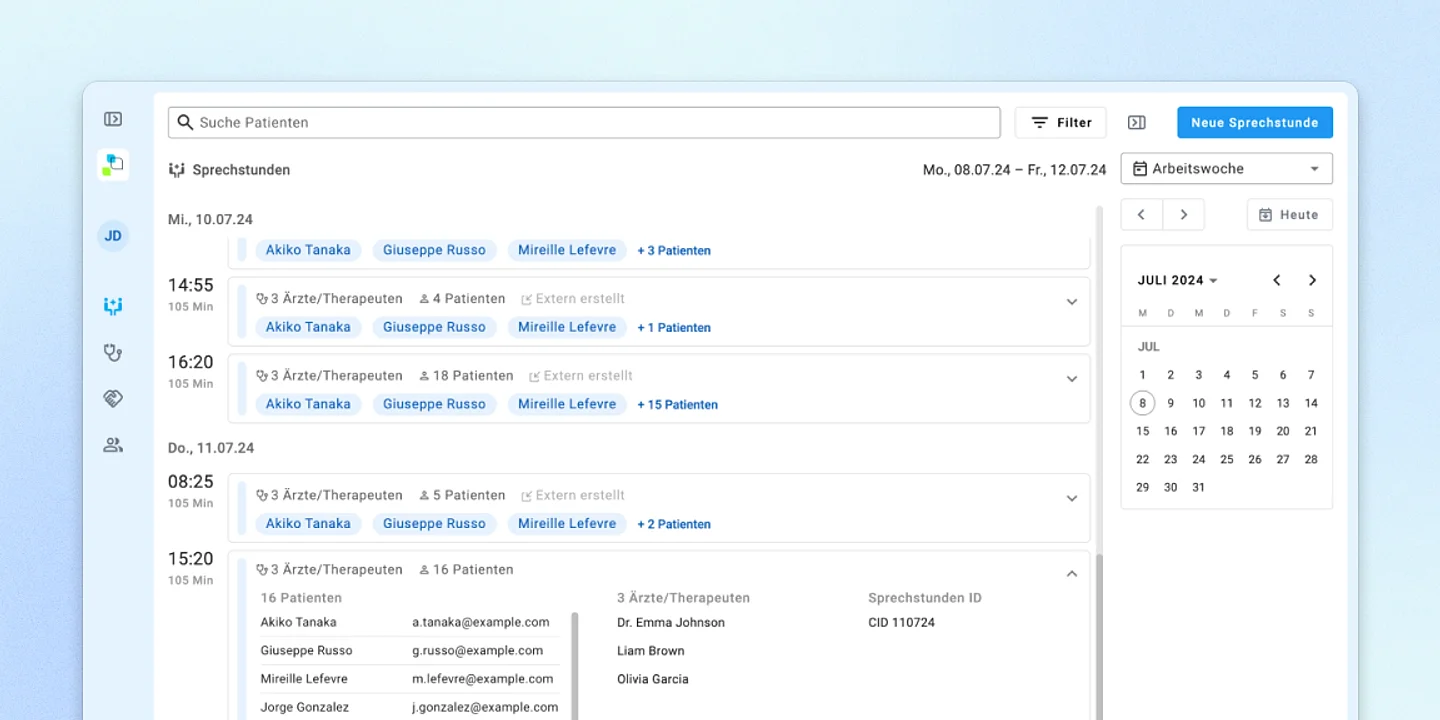
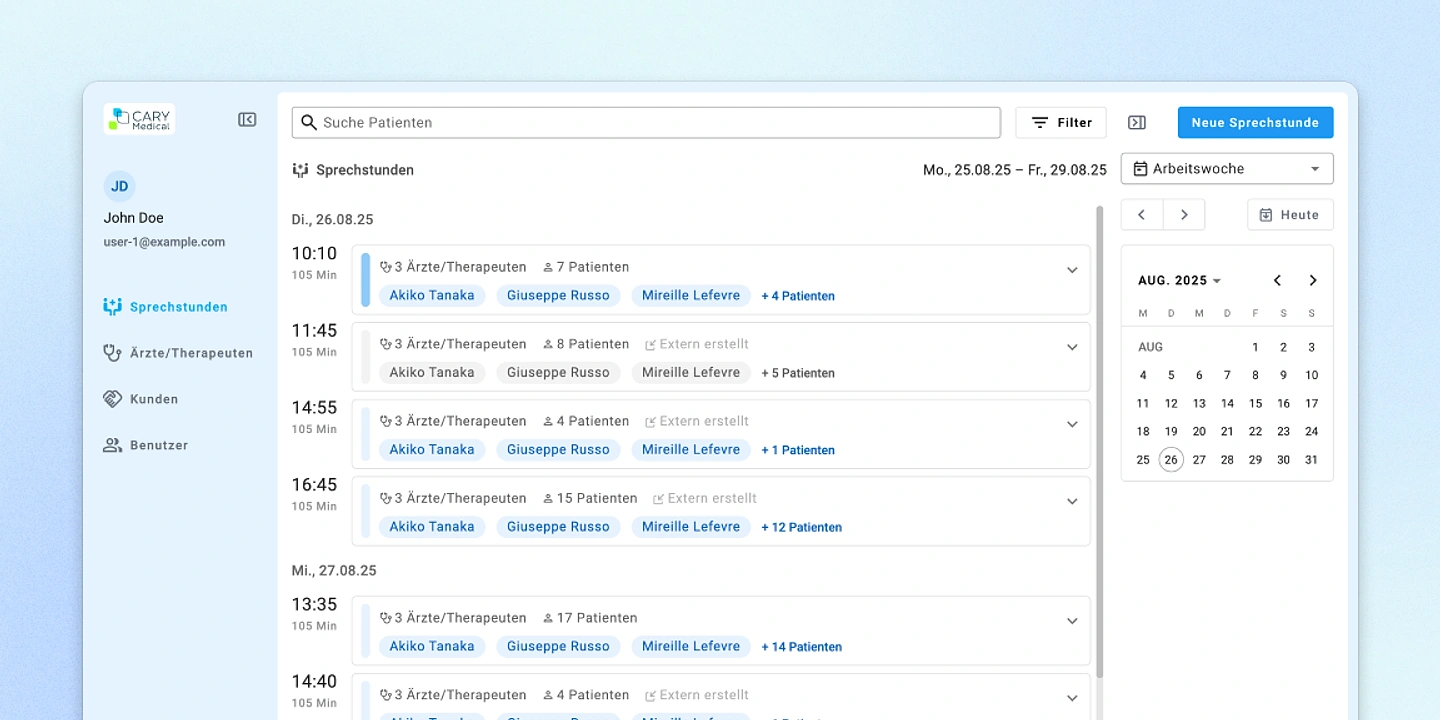
refactor(carousel): adjust layout and image handling
* Set `quality={100}` on `<Picture />` component in Photo.astro
* Update carousel navigation height from `48px` to `2rem`
* Move circle navigation `bottom-14` to `bottom-6`
* Lower backdrop z-index from `z-90` to `z-80`
* Replace project screenshots with higher quality versions

diff --git a/src/content/projects/cary-medical.md b/src/content/projects/cary-medical.md
@@ -6,11 +6,23 @@ pageTitle: "CARY Medical | Medizinische Terminplanungs-Webanwendung | Arthur Ers
 images:
   [
     { src: "src/images/projects/caryMedical/caryMedical-cover.webp", alt: "CARY Medical App Coverbild" },
-    { src: "src/images/projects/caryMedical/caryMedical-01.webp", alt: "Sprechstunden-Übersicht" },
-    { src: "src/images/projects/caryMedical/caryMedical-02.webp", alt: "Sprechstunde bearbeiten" },
-    { src: "src/images/projects/caryMedical/caryMedical-03.webp", alt: "Arzt/Therapeut bearbeiten" },
-    { src: "src/images/projects/caryMedical/caryMedical-04.webp", alt: "Kunde bearbeiten" },
-    { src: "src/images/projects/caryMedical/caryMedical-05.webp", alt: "Benutzer bearbeiten" },
+    { src: "src/images/projects/caryMedical/0-login.webp", alt: "Lorem" },
+    { src: "src/images/projects/caryMedical/1-consultations-sideClose.webp", alt: "consultations sidepannels closed" },
+    { src: "src/images/projects/caryMedical/2-consultations-sideOpen.webp", alt: "consultations sidespannels open" },
+    { src: "src/images/projects/caryMedical/3-consultations-infoBarOpen.webp", alt: "consultations info bar open" },
+    {
+      src: "src/images/projects/caryMedical/4-consultations-weekfilterOpen.webp",
+      alt: "consultations week filer open",
+    },
+    {
+      src: "src/images/projects/caryMedical/5-consultations-editConsultation.webp",
+      alt: "consultations sidespannels open",
+    },
+    { src: "src/images/projects/caryMedical/6-consultations-filterOpen.webp", alt: "consultations filer open" },
+    { src: "src/images/projects/caryMedical/7-consultations-filteractive.webp", alt: "consultations filer active" },
+    { src: "src/images/projects/caryMedical/8-doctors.webp", alt: "doctors edit" },
+    { src: "src/images/projects/caryMedical/9-clients.webp", alt: "clients edit" },
+    { src: "src/images/projects/caryMedical/10-users.webp", alt: "users edit" },
   ]
 tags: ["Professionelles Projekt", "Angular", "UX (User Experience)", "UI (User Interface)", "Frontend-Entwicklung"]
 
